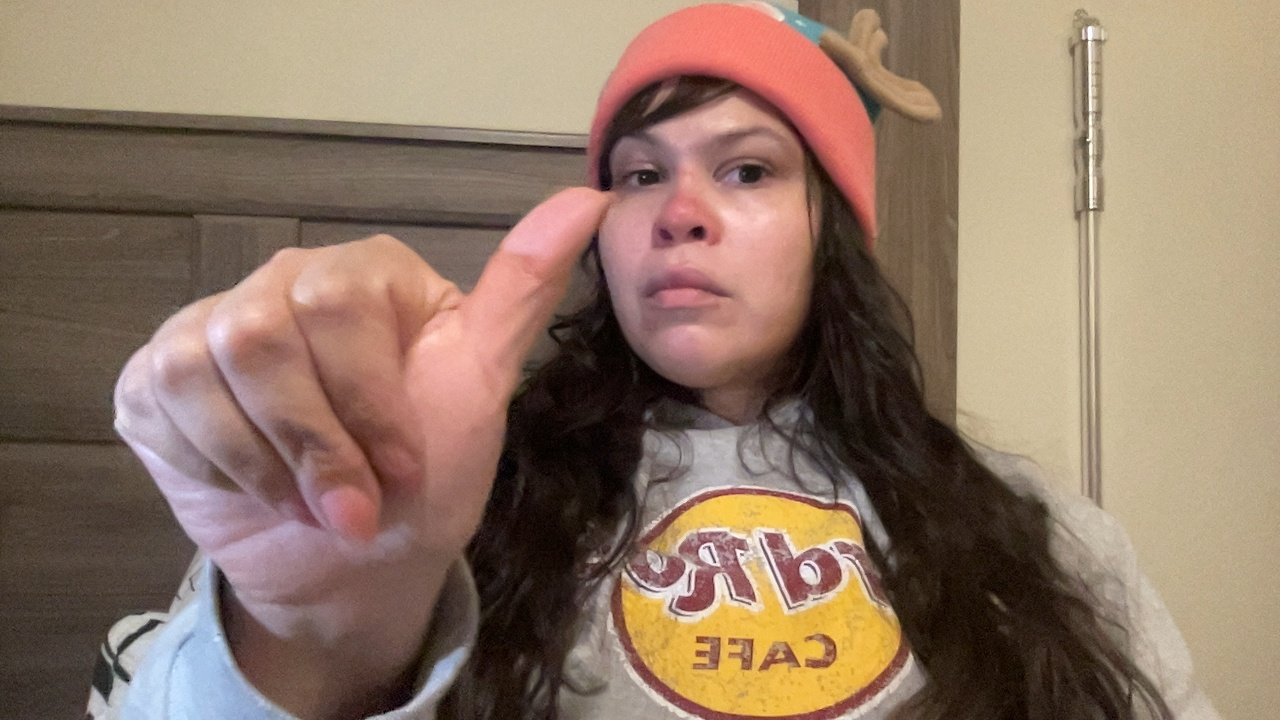
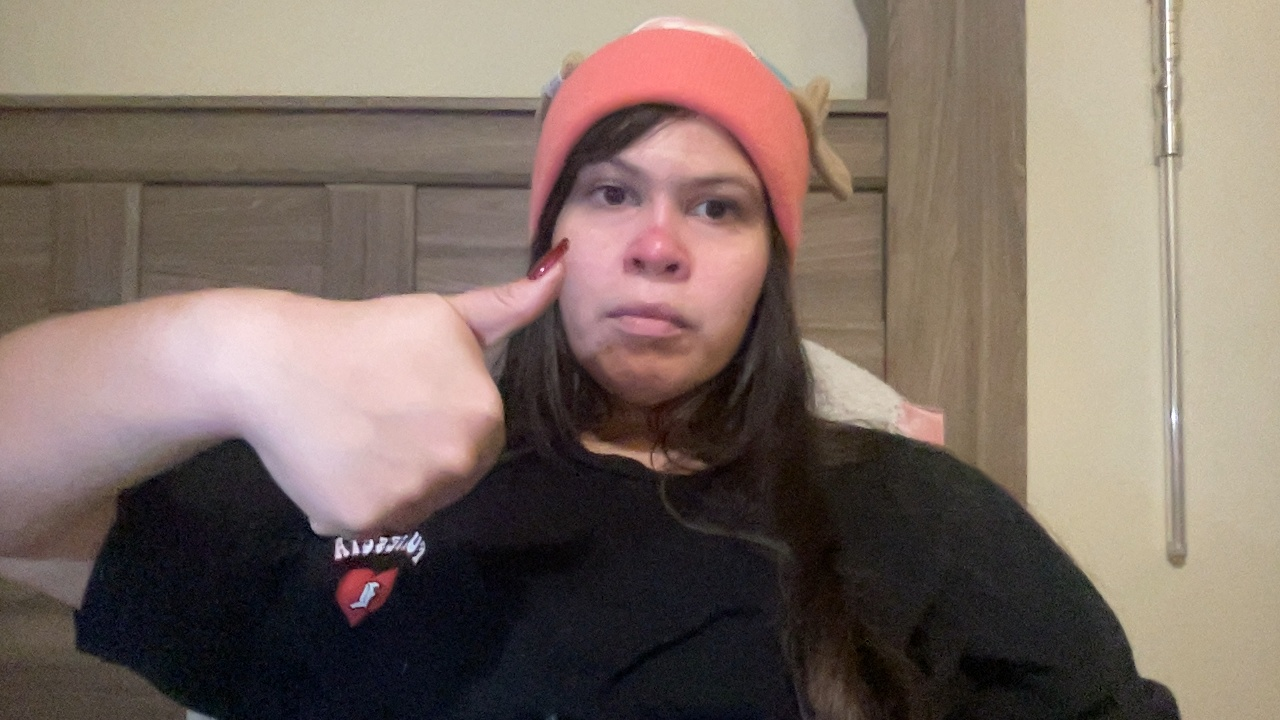
Additional Thumbs up gestures captured to expand dataset

diff --git a/scripts/collect_hand_gestures.py b/scripts/collect_hand_gestures.py
@@ -2,7 +2,7 @@ import cv2
 import os
 
 # Debugged issue with path identification, the images should now save in the correct folders.
-gesture_name = "peace"
+gesture_name = "thumbs_up"
 save_path = f"/Users/damarisgarcia/Desktop/computer_vision_hand_gesture_project/dataset/{gesture_name}"
 os.makedirs(save_path, exist_ok=True)
 
